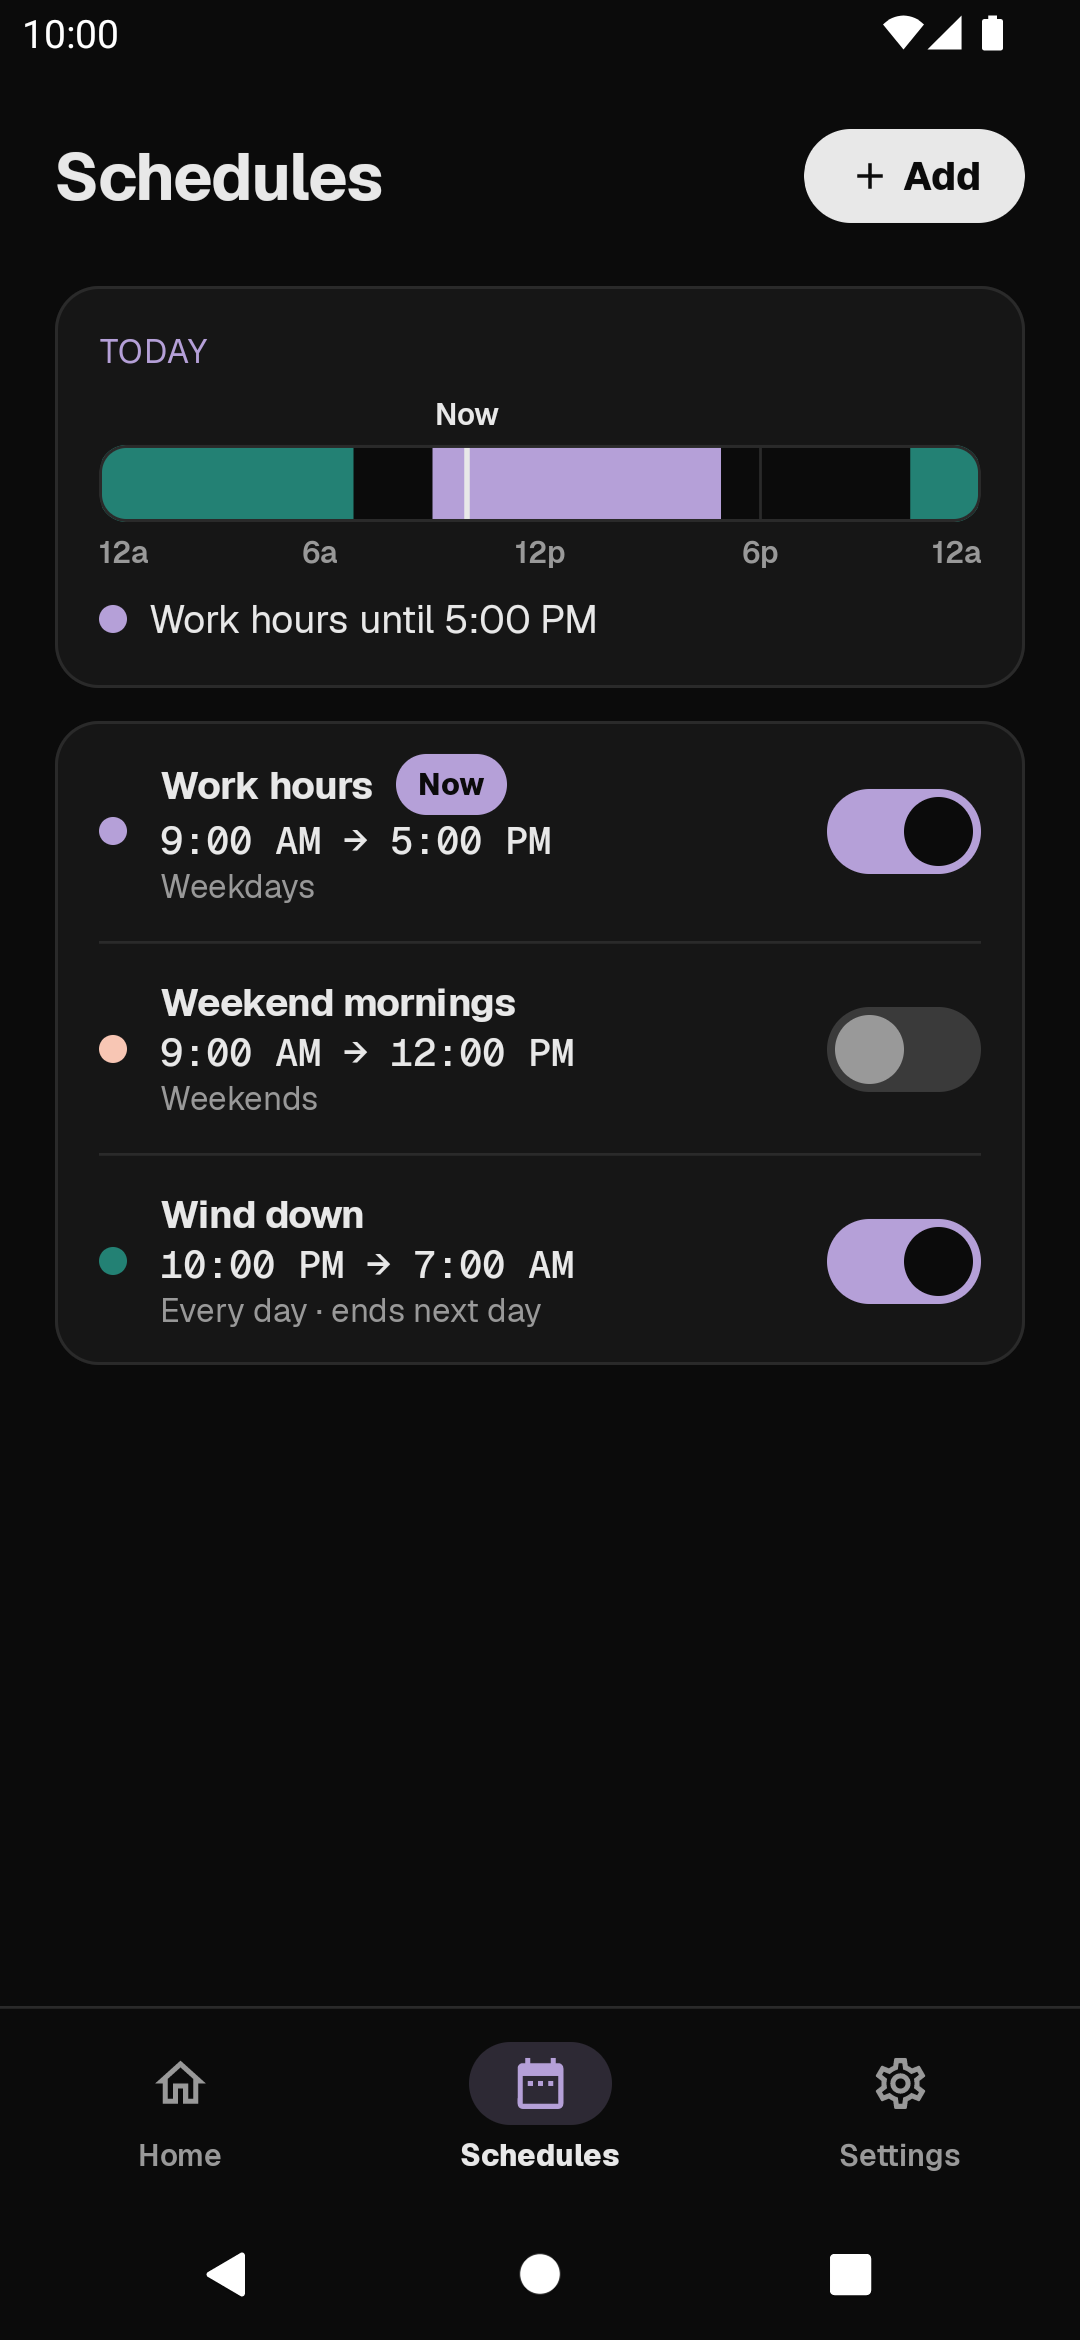
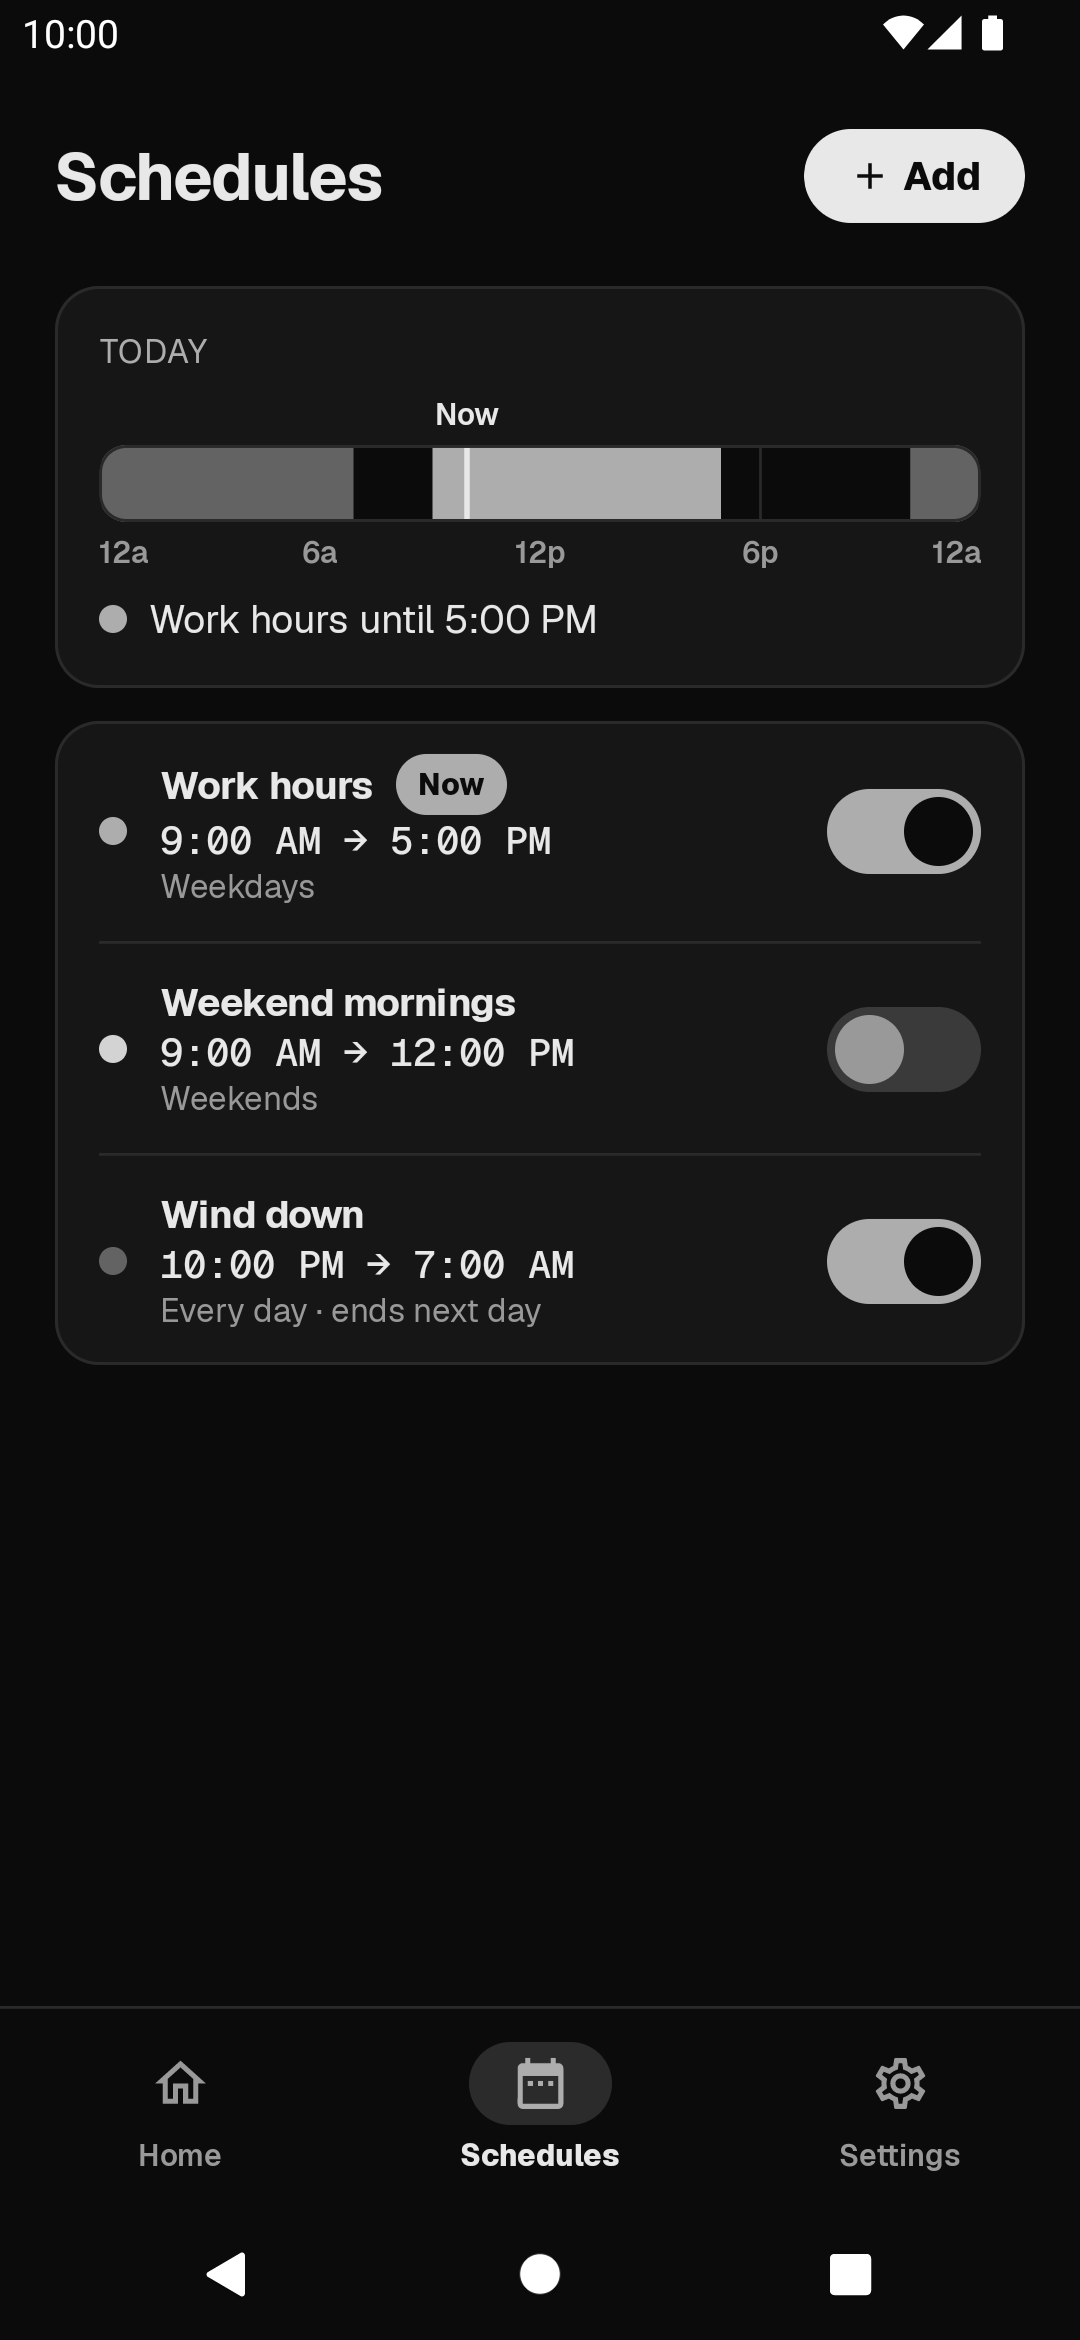
docs(listing): show screenshots in grayscale to match the phone

diff --git a/README.md b/README.md
@@ -23,7 +23,7 @@ https://github.com/user-attachments/assets/91227ef3-df17-47fe-8e97-8e6ab63771be
 
 [Download the walkthrough (MP4)](https://github.com/Princeyadav05/Grayout/releases/download/v1.5.0/grayout-demo-v1.5.0.mp4)
 
-Screenshots and walkthrough captured from v1.5.0 on an Android 12 emulator with sample data. These captures show the app interface; the phone's display-level grayscale effect is not reproduced in the screenshots or recording.
+Screenshots and walkthrough captured from v1.5.0 on an Android 12 emulator with sample data. Android applies grayscale after the screen is captured, so the raw captures come out in color. They are converted to grayscale here to match what you see on the phone.
 
 ## Requirements
 
